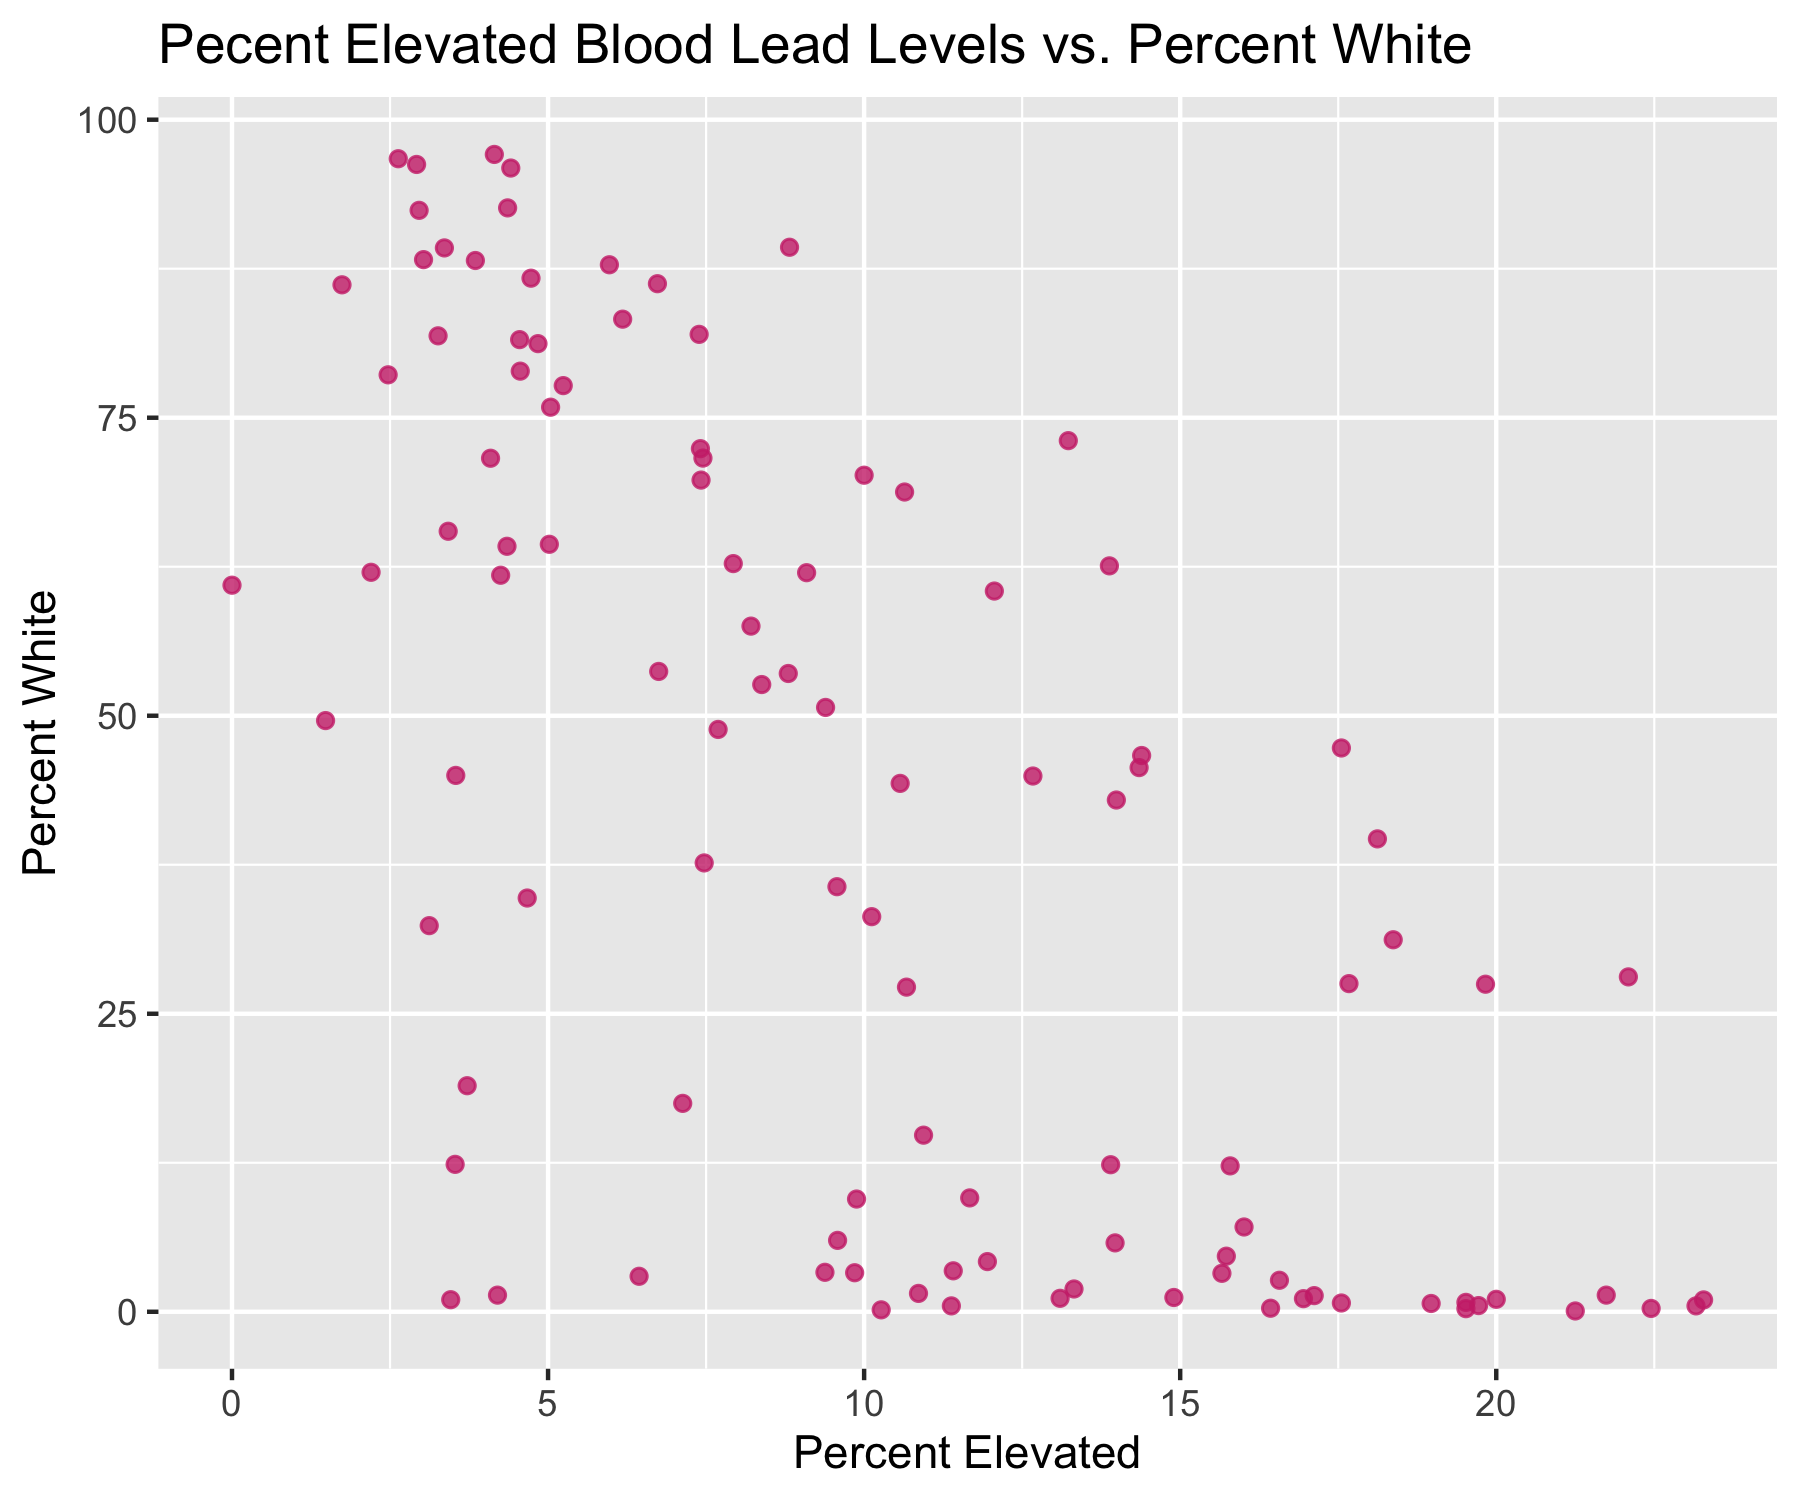
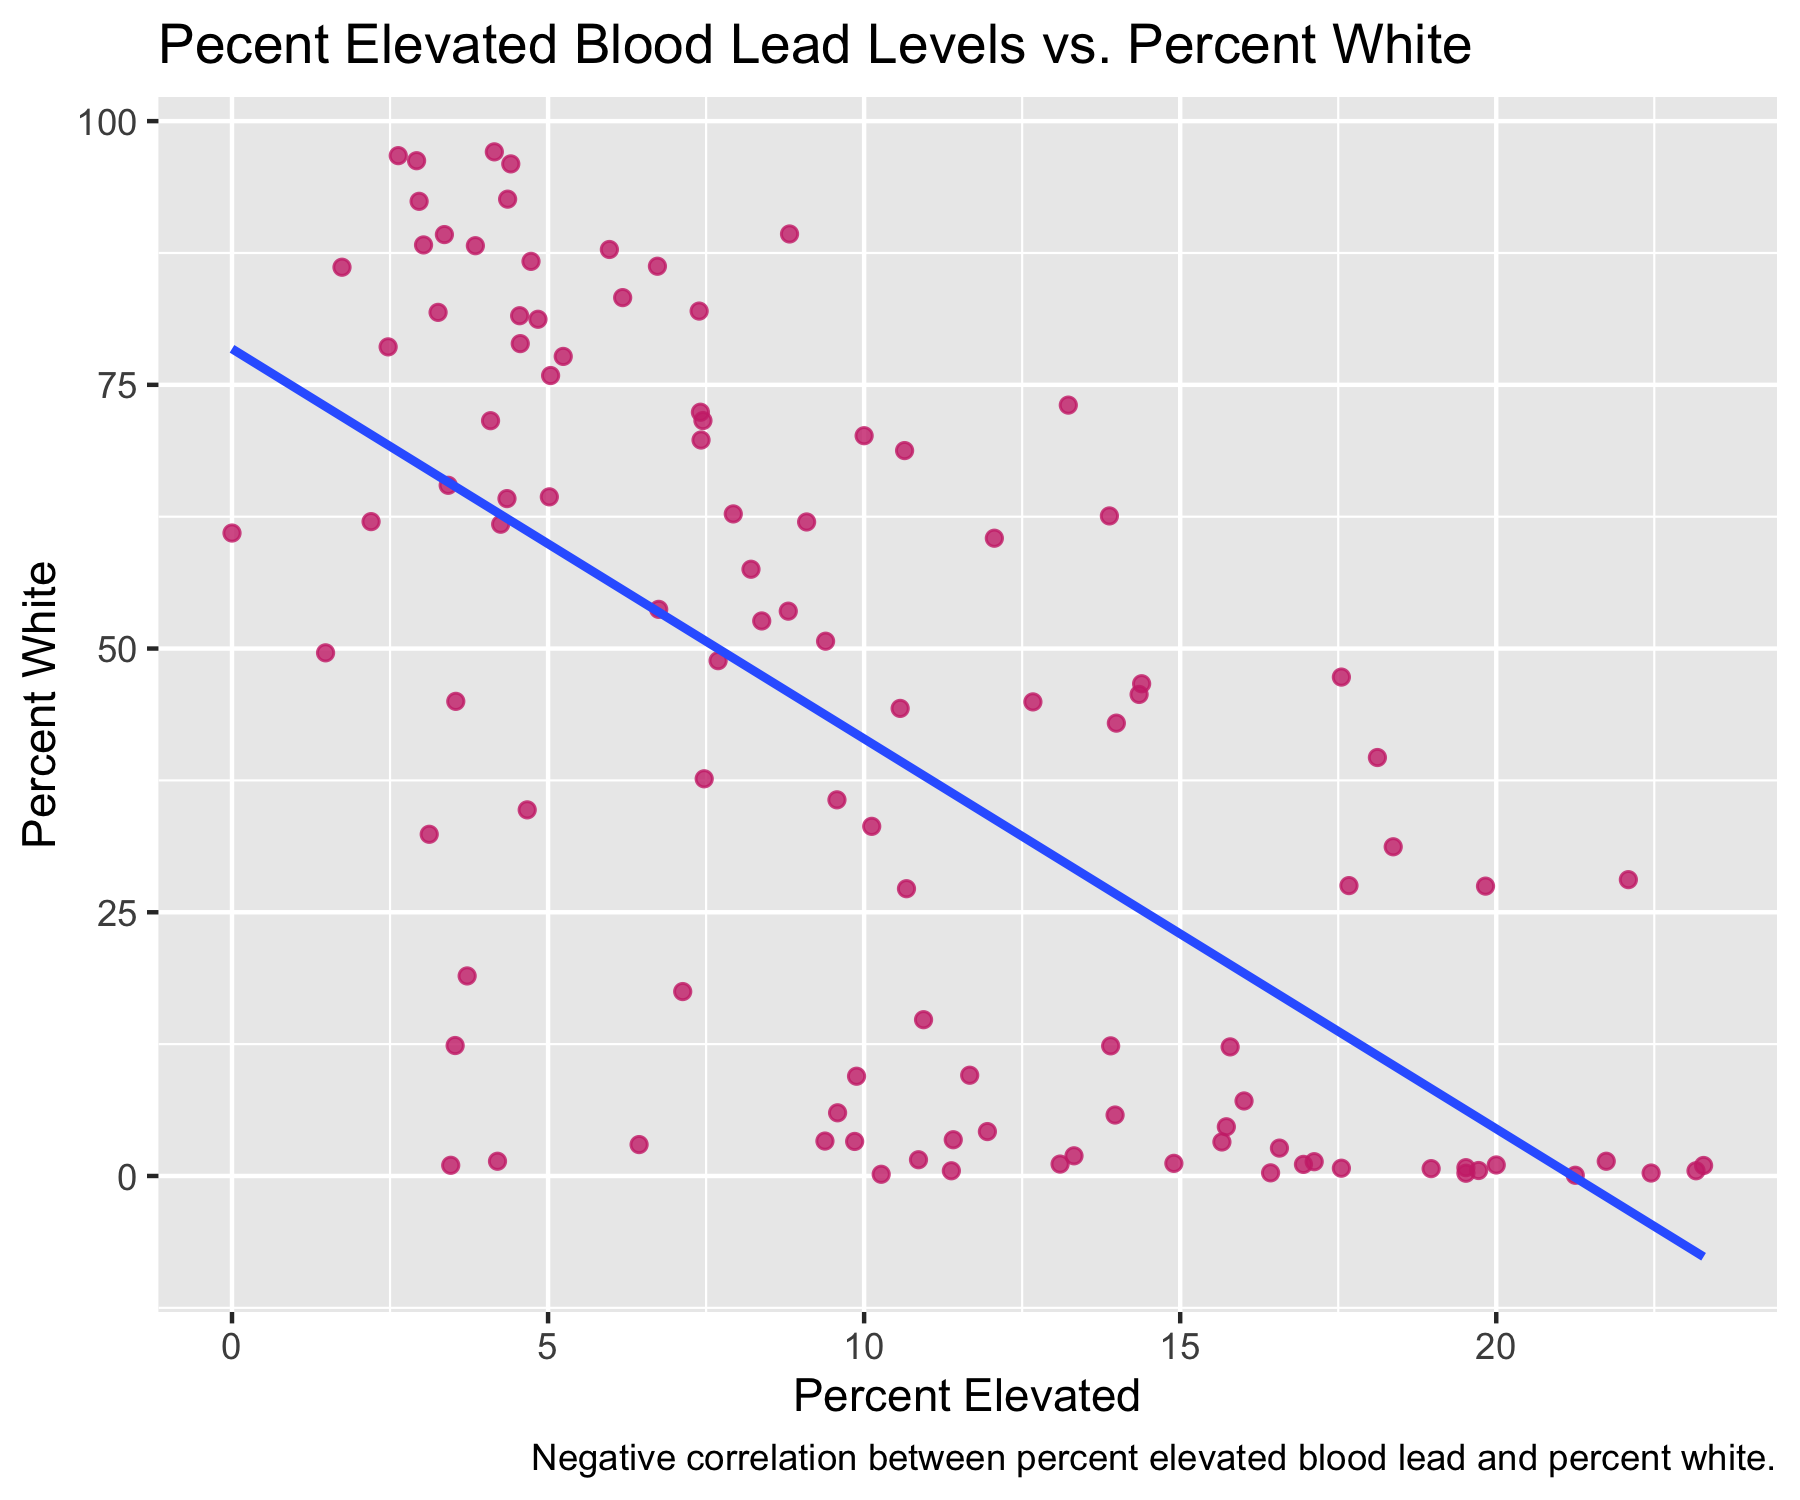
more updates to graphs

diff --git a/docs/stl_lead_inequity.html b/docs/stl_lead_inequity.html
@@ -143,7 +143,8 @@ The following objects are masked from 'package:stats':
 <pre><code>here() starts at /Users/michelle/Documents/UCSB Grad School/Courses/eds_221/stl-lead-ml</code></pre>
 </div>
 <div class="sourceCode cell-code" id="cb7"><pre class="sourceCode r code-with-copy"><code class="sourceCode r"><span id="cb7-1"><a href="#cb7-1" aria-hidden="true" tabindex="-1"></a><span class="fu">library</span>(skimr)</span>
-<span id="cb7-2"><a href="#cb7-2" aria-hidden="true" tabindex="-1"></a><span class="fu">library</span>(dplyr)</span></code><button title="Copy to Clipboard" class="code-copy-button"><i class="bi"></i></button></pre></div>
+<span id="cb7-2"><a href="#cb7-2" aria-hidden="true" tabindex="-1"></a><span class="fu">library</span>(dplyr)</span>
+<span id="cb7-3"><a href="#cb7-3" aria-hidden="true" tabindex="-1"></a><span class="fu">library</span>(stringr)</span></code><button title="Copy to Clipboard" class="code-copy-button"><i class="bi"></i></button></pre></div>
 </div>
 <div class="cell">
 <div class="sourceCode cell-code" id="cb8"><pre class="sourceCode r code-with-copy"><code class="sourceCode r"><span id="cb8-1"><a href="#cb8-1" aria-hidden="true" tabindex="-1"></a>stl_lead <span class="ot">&lt;-</span> <span class="fu">read_csv</span>(here<span class="sc">::</span><span class="fu">here</span>(<span class="st">"data"</span>,</span>
@@ -467,28 +468,38 @@ dbl (14): geoID, tractCE, countTested, pctElevated, totalPop, totalPop_MOE, ...
 <span id="cb12-2"><a href="#cb12-2" aria-hidden="true" tabindex="-1"></a>                        <span class="fu">aes</span>(<span class="at">x =</span> pct_elevated, </span>
 <span id="cb12-3"><a href="#cb12-3" aria-hidden="true" tabindex="-1"></a>                            <span class="at">y =</span> prop_white)) <span class="sc">+</span></span>
 <span id="cb12-4"><a href="#cb12-4" aria-hidden="true" tabindex="-1"></a>  <span class="fu">geom_point</span>(<span class="at">color =</span> <span class="st">"violetred3"</span>, <span class="at">alpha =</span> <span class="fl">0.8</span>) <span class="sc">+</span></span>
-<span id="cb12-5"><a href="#cb12-5" aria-hidden="true" tabindex="-1"></a>  <span class="fu">labs</span>(<span class="at">x =</span> <span class="st">"Percent Elevated"</span>, <span class="at">y =</span> <span class="st">"Percent White"</span>, <span class="at">title =</span> <span class="st">"Pecent Elevated Blood Lead Levels vs. Percent White"</span>)</span>
-<span id="cb12-6"><a href="#cb12-6" aria-hidden="true" tabindex="-1"></a></span>
-<span id="cb12-7"><a href="#cb12-7" aria-hidden="true" tabindex="-1"></a>stl_lead_plot</span></code><button title="Copy to Clipboard" class="code-copy-button"><i class="bi"></i></button></pre></div>
+<span id="cb12-5"><a href="#cb12-5" aria-hidden="true" tabindex="-1"></a>  <span class="fu">labs</span>(<span class="at">x =</span> <span class="st">"Percent Elevated"</span>, </span>
+<span id="cb12-6"><a href="#cb12-6" aria-hidden="true" tabindex="-1"></a>       <span class="at">y =</span> <span class="st">"Percent White"</span>, </span>
+<span id="cb12-7"><a href="#cb12-7" aria-hidden="true" tabindex="-1"></a>       <span class="at">title =</span> <span class="st">"Pecent Elevated Blood Lead Levels vs. Percent White"</span>, </span>
+<span id="cb12-8"><a href="#cb12-8" aria-hidden="true" tabindex="-1"></a>       <span class="at">caption =</span> <span class="st">"Negative correlation between percent elevated blood lead and percent white."</span>) <span class="sc">+</span></span>
+<span id="cb12-9"><a href="#cb12-9" aria-hidden="true" tabindex="-1"></a>  <span class="fu">geom_smooth</span>(<span class="at">method =</span> lm, <span class="at">se =</span> <span class="cn">FALSE</span>)</span>
+<span id="cb12-10"><a href="#cb12-10" aria-hidden="true" tabindex="-1"></a></span>
+<span id="cb12-11"><a href="#cb12-11" aria-hidden="true" tabindex="-1"></a>stl_lead_plot</span></code><button title="Copy to Clipboard" class="code-copy-button"><i class="bi"></i></button></pre></div>
+<div class="cell-output cell-output-stderr">
+<pre><code>`geom_smooth()` using formula 'y ~ x'</code></pre>
+</div>
 <div class="cell-output-display">
 <p><img src="stl_lead_inequity_files/figure-html/unnamed-chunk-5-1.png" class="img-fluid" width="672"></p>
 </div>
 </div>
-<div class="cell">
-<div class="sourceCode cell-code" id="cb13"><pre class="sourceCode r code-with-copy"><code class="sourceCode r"><span id="cb13-1"><a href="#cb13-1" aria-hidden="true" tabindex="-1"></a><span class="fu">ggsave</span>(<span class="at">plot =</span> stl_lead_plot,</span>
-<span id="cb13-2"><a href="#cb13-2" aria-hidden="true" tabindex="-1"></a>       <span class="fu">here</span>(<span class="st">"figs"</span>,</span>
-<span id="cb13-3"><a href="#cb13-3" aria-hidden="true" tabindex="-1"></a>            <span class="st">"stl_lead_plot.png"</span>),</span>
-<span id="cb13-4"><a href="#cb13-4" aria-hidden="true" tabindex="-1"></a>       <span class="at">width =</span> <span class="dv">6</span>,</span>
-<span id="cb13-5"><a href="#cb13-5" aria-hidden="true" tabindex="-1"></a>       <span class="at">height =</span> <span class="dv">5</span>)</span></code><button title="Copy to Clipboard" class="code-copy-button"><i class="bi"></i></button></pre></div>
-</div>
 <p>As the percent of white people in each census tract decreases, the percent of people with elevated blood lead levels increases.</p>
 <div class="cell">
-<div class="sourceCode cell-code" id="cb14"><pre class="sourceCode r code-with-copy"><code class="sourceCode r"><span id="cb14-1"><a href="#cb14-1" aria-hidden="true" tabindex="-1"></a>stl_lead_histogram <span class="ot">&lt;-</span> <span class="fu">ggplot</span>(<span class="at">data =</span> stl_lead_prop,</span>
-<span id="cb14-2"><a href="#cb14-2" aria-hidden="true" tabindex="-1"></a>       <span class="fu">aes</span>(<span class="at">x =</span> pct_elevated)) <span class="sc">+</span></span>
-<span id="cb14-3"><a href="#cb14-3" aria-hidden="true" tabindex="-1"></a>  <span class="fu">geom_histogram</span>(<span class="at">color =</span> <span class="st">"black"</span>, <span class="at">fill =</span> <span class="st">"lemonchiffon2"</span>) <span class="sc">+</span></span>
-<span id="cb14-4"><a href="#cb14-4" aria-hidden="true" tabindex="-1"></a>  <span class="fu">labs</span>(<span class="at">x =</span> <span class="st">"Percent Elevated Blood Lead"</span>)</span>
-<span id="cb14-5"><a href="#cb14-5" aria-hidden="true" tabindex="-1"></a></span>
-<span id="cb14-6"><a href="#cb14-6" aria-hidden="true" tabindex="-1"></a>stl_lead_histogram</span></code><button title="Copy to Clipboard" class="code-copy-button"><i class="bi"></i></button></pre></div>
+<div class="sourceCode cell-code" id="cb14"><pre class="sourceCode r code-with-copy"><code class="sourceCode r"><span id="cb14-1"><a href="#cb14-1" aria-hidden="true" tabindex="-1"></a><span class="fu">ggsave</span>(<span class="at">plot =</span> stl_lead_plot,</span>
+<span id="cb14-2"><a href="#cb14-2" aria-hidden="true" tabindex="-1"></a>       <span class="fu">here</span>(<span class="st">"figs"</span>,</span>
+<span id="cb14-3"><a href="#cb14-3" aria-hidden="true" tabindex="-1"></a>            <span class="st">"stl_lead_plot.png"</span>),</span>
+<span id="cb14-4"><a href="#cb14-4" aria-hidden="true" tabindex="-1"></a>       <span class="at">width =</span> <span class="dv">6</span>,</span>
+<span id="cb14-5"><a href="#cb14-5" aria-hidden="true" tabindex="-1"></a>       <span class="at">height =</span> <span class="dv">5</span>)</span></code><button title="Copy to Clipboard" class="code-copy-button"><i class="bi"></i></button></pre></div>
+<div class="cell-output cell-output-stderr">
+<pre><code>`geom_smooth()` using formula 'y ~ x'</code></pre>
+</div>
+</div>
+<div class="cell">
+<div class="sourceCode cell-code" id="cb16"><pre class="sourceCode r code-with-copy"><code class="sourceCode r"><span id="cb16-1"><a href="#cb16-1" aria-hidden="true" tabindex="-1"></a>stl_lead_histogram <span class="ot">&lt;-</span> <span class="fu">ggplot</span>(<span class="at">data =</span> stl_lead_prop,</span>
+<span id="cb16-2"><a href="#cb16-2" aria-hidden="true" tabindex="-1"></a>       <span class="fu">aes</span>(<span class="at">x =</span> pct_elevated)) <span class="sc">+</span></span>
+<span id="cb16-3"><a href="#cb16-3" aria-hidden="true" tabindex="-1"></a>  <span class="fu">geom_histogram</span>(<span class="at">color =</span> <span class="st">"black"</span>, <span class="at">fill =</span> <span class="st">"lemonchiffon2"</span>) <span class="sc">+</span></span>
+<span id="cb16-4"><a href="#cb16-4" aria-hidden="true" tabindex="-1"></a>  <span class="fu">labs</span>(<span class="at">x =</span> <span class="st">"Percent Elevated Blood Lead"</span>)</span>
+<span id="cb16-5"><a href="#cb16-5" aria-hidden="true" tabindex="-1"></a></span>
+<span id="cb16-6"><a href="#cb16-6" aria-hidden="true" tabindex="-1"></a>stl_lead_histogram</span></code><button title="Copy to Clipboard" class="code-copy-button"><i class="bi"></i></button></pre></div>
 <div class="cell-output cell-output-stderr">
 <pre><code>`stat_bin()` using `bins = 30`. Pick better value with `binwidth`.</code></pre>
 </div>
@@ -497,11 +508,11 @@ dbl (14): geoID, tractCE, countTested, pctElevated, totalPop, totalPop_MOE, ...
 </div>
 </div>
 <div class="cell">
-<div class="sourceCode cell-code" id="cb16"><pre class="sourceCode r code-with-copy"><code class="sourceCode r"><span id="cb16-1"><a href="#cb16-1" aria-hidden="true" tabindex="-1"></a><span class="fu">ggsave</span>(<span class="at">plot =</span> stl_lead_histogram,</span>
-<span id="cb16-2"><a href="#cb16-2" aria-hidden="true" tabindex="-1"></a>      <span class="fu">here</span>(<span class="st">"figs"</span>, <span class="st">"stl_lead_histogram.jpg"</span>),</span>
-<span id="cb16-3"><a href="#cb16-3" aria-hidden="true" tabindex="-1"></a>       <span class="at">width =</span> <span class="dv">8</span>,</span>
-<span id="cb16-4"><a href="#cb16-4" aria-hidden="true" tabindex="-1"></a>       <span class="at">height =</span> <span class="dv">8</span>,</span>
-<span id="cb16-5"><a href="#cb16-5" aria-hidden="true" tabindex="-1"></a>       <span class="at">dpi =</span> <span class="dv">200</span>)</span></code><button title="Copy to Clipboard" class="code-copy-button"><i class="bi"></i></button></pre></div>
+<div class="sourceCode cell-code" id="cb18"><pre class="sourceCode r code-with-copy"><code class="sourceCode r"><span id="cb18-1"><a href="#cb18-1" aria-hidden="true" tabindex="-1"></a><span class="fu">ggsave</span>(<span class="at">plot =</span> stl_lead_histogram,</span>
+<span id="cb18-2"><a href="#cb18-2" aria-hidden="true" tabindex="-1"></a>      <span class="fu">here</span>(<span class="st">"figs"</span>, <span class="st">"stl_lead_histogram.jpg"</span>),</span>
+<span id="cb18-3"><a href="#cb18-3" aria-hidden="true" tabindex="-1"></a>       <span class="at">width =</span> <span class="dv">8</span>,</span>
+<span id="cb18-4"><a href="#cb18-4" aria-hidden="true" tabindex="-1"></a>       <span class="at">height =</span> <span class="dv">8</span>,</span>
+<span id="cb18-5"><a href="#cb18-5" aria-hidden="true" tabindex="-1"></a>       <span class="at">dpi =</span> <span class="dv">200</span>)</span></code><button title="Copy to Clipboard" class="code-copy-button"><i class="bi"></i></button></pre></div>
 <div class="cell-output cell-output-stderr">
 <pre><code>`stat_bin()` using `bins = 30`. Pick better value with `binwidth`.</code></pre>
 </div>
